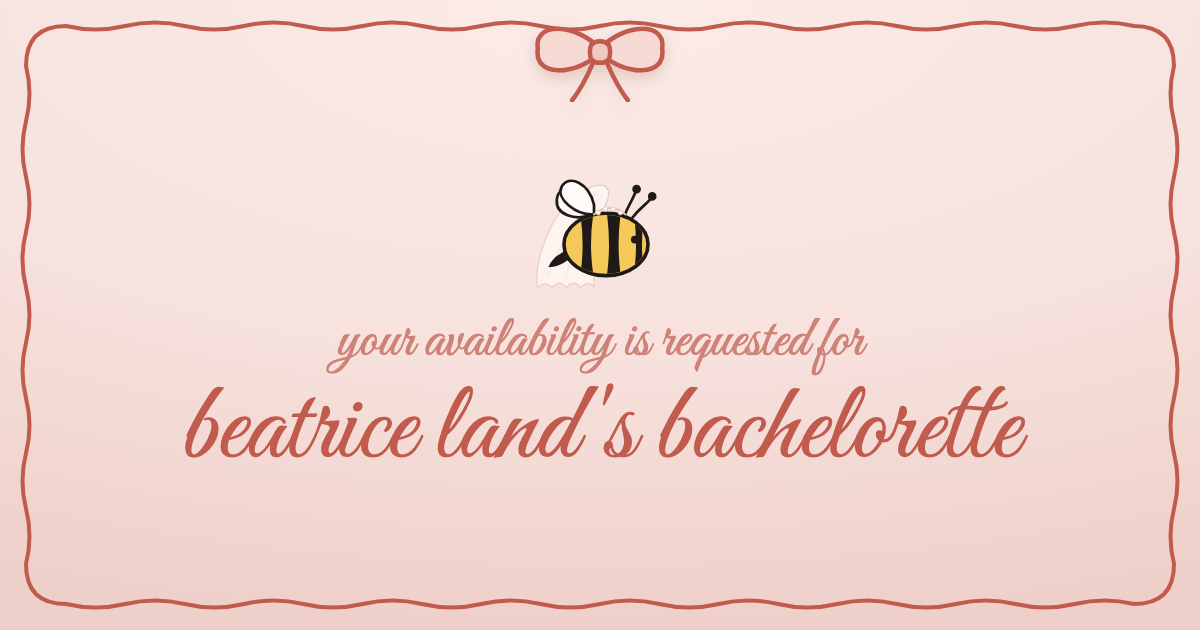
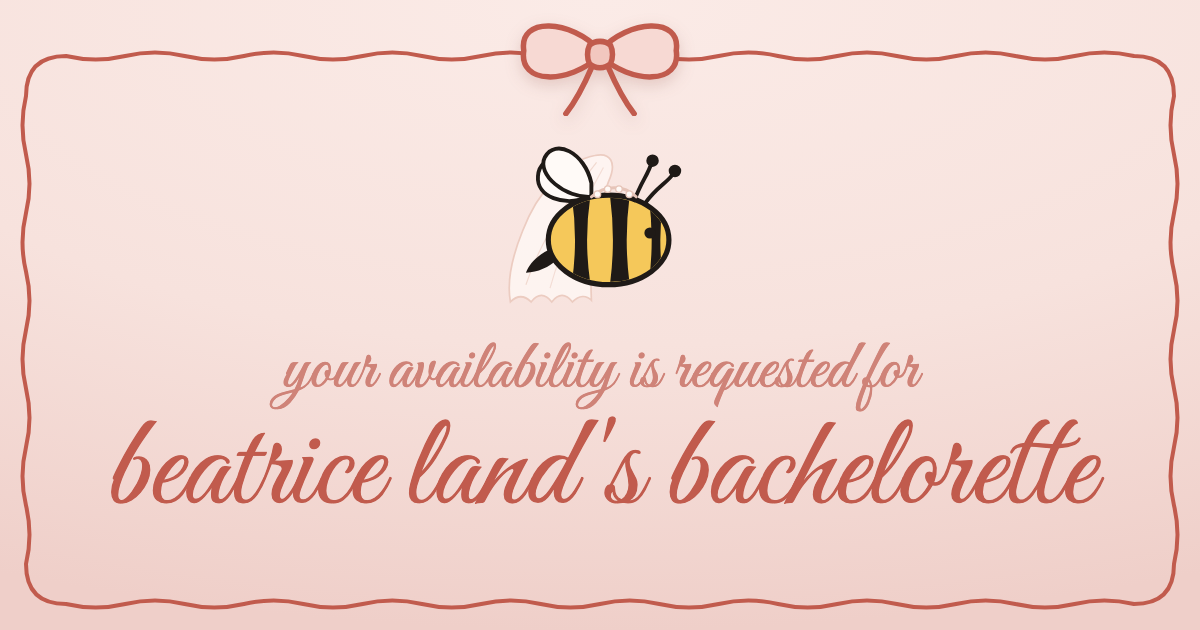
Improve bach share image: bow on border, larger bee and text
- Bow now straddles the top border line (extra top headroom in the
  frame) instead of floating above it
- Scale up the bee and both cursive lines to fill the card

diff --git a/bach-preview.html b/bach-preview.html
@@ -36,13 +36,13 @@
     .frame { position: absolute; inset: 0; width: 100%; height: 100%; pointer-events: none; }
     .frame path { fill: none; stroke: var(--rose); stroke-width: 4; stroke-linecap: round; stroke-linejoin: round; }
 
-    .bow { position: absolute; top: 6px; left: 50%; transform: translateX(-50%); width: 150px; filter: drop-shadow(0 6px 8px rgba(120,50,40,.18)); }
+    .bow { position: absolute; top: -2px; left: 50%; transform: translateX(-50%); width: 184px; filter: drop-shadow(0 6px 8px rgba(120,50,40,.18)); }
 
-    .bee { width: 156px; height: auto; overflow: visible; margin-bottom: 16px; }
+    .bee { width: 224px; height: auto; overflow: visible; margin-bottom: 20px; }
 
     .eyebrow {
       font-family: 'Great Vibes', cursive;
-      font-size: 58px;
+      font-size: 70px;
       line-height: 1;
       font-weight: 400;
       color: var(--rose-mute);
@@ -50,10 +50,10 @@
     .title {
       font-family: 'Great Vibes', cursive;
       color: var(--rose);
-      font-size: 112px;
-      line-height: 1.02;
+      font-size: 132px;
+      line-height: 1.0;
       font-weight: 400;
-      margin-top: 4px;
+      margin-top: 2px;
     }
   </style>
 </head>
@@ -127,8 +127,8 @@
       return d;
     }
     (function drawFrame() {
-      const w = 1200, h = 630, m = 26, r = 40, amp = 7, wl = 58;
-      const L = m, T = m, R = w - m, B = h - m;
+      const w = 1200, h = 630, m = 26, mTop = 56, r = 40, amp = 7, wl = 58;
+      const L = m, T = mTop, R = w - m, B = h - m;
       let d = `M ${L + r} ${T}`;
       d += wobbleEdge(L + r, T, R - r, T, amp, wl);
       d += ` Q ${R} ${T} ${R} ${T + r}`;
